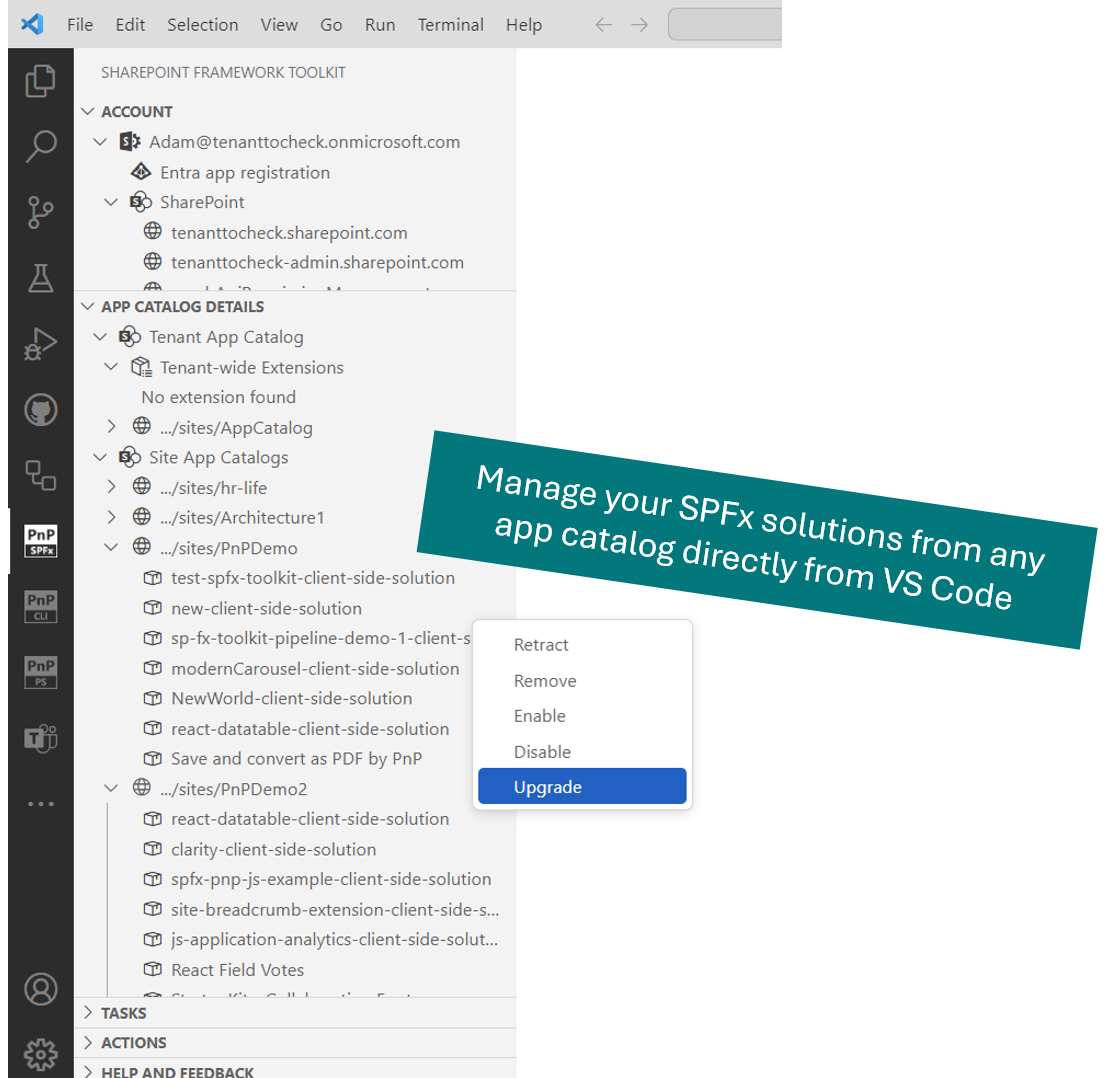
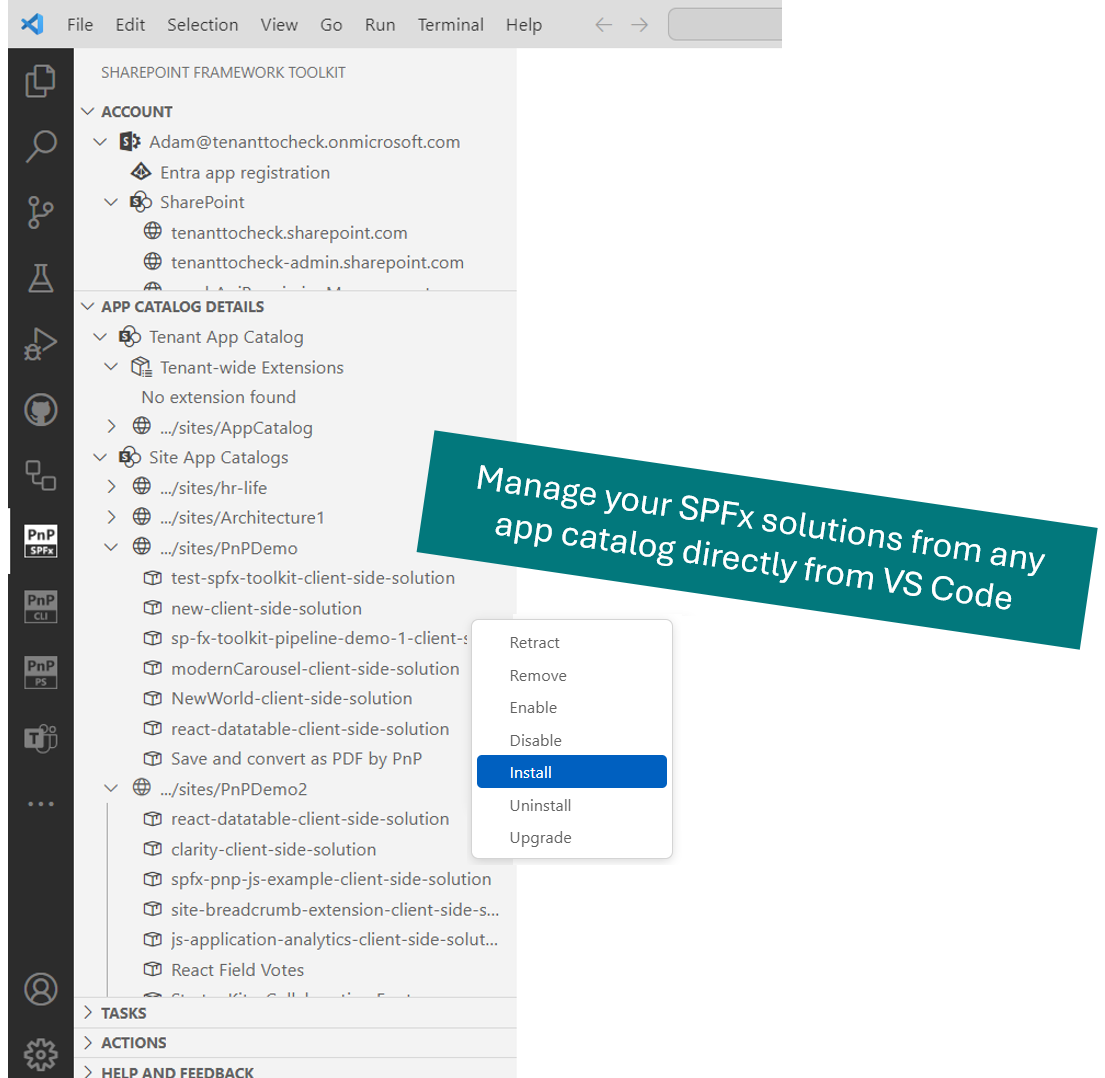
Install, Uninstall apps to a specified site. Closes #350 (#390)
## 🎯 Aim

Allows to install/uninstall an app on a specified site collection using
a action in the app catalog app list view

## 📷 Result

![image](https://github.com/user-attachments/assets/3972c256-e4b4-4f1b-9bb9-8d4831fa6fbe)

## ✅ What was done

- [X] Install/Uninstall actions added to both tenant and site collection
app catalog apps
- [X] Prompts for relative site URL when actions triggerred in tenant
app catalog apps.
- [X] Requires confirmation before uninstalling app.

## 🔗 Related issue

Closes: #350

Changed region(s): [[0.4308, 0.5816, 0.6462, 0.7959]]

diff --git a/src/services/actions/CliActions.ts b/src/services/actions/CliActions.ts
@@ -67,6 +67,16 @@ export class CliActions {
       )
     );
     subscriptions.push(
+      commands.registerCommand(Commands.installAppCatalogApp, (node: ActionTreeItem) =>
+        CliActions.toggleAppInstalled(node, ContextKeys.installApp, 'install')
+      )
+    );
+    subscriptions.push(
+      commands.registerCommand(Commands.uninstallAppCatalogApp, (node: ActionTreeItem) =>
+        CliActions.toggleAppInstalled(node, ContextKeys.uninstallApp, 'uninstall')
+      )
+    );
+    subscriptions.push(
       commands.registerCommand(Commands.upgradeAppCatalogApp, CliActions.upgradeAppCatalogApp)
     );
     subscriptions.push(
@@ -344,6 +354,96 @@ export class CliActions {
 
       await CliExecuter.execute('spo listitem set', 'json', commandOptionsSet);
       Notifications.info(`App '${appTitle}' has been successfully ${action === 'enable' ? 'enabled' : 'disabled'}.`);
+
+      // refresh the environmentTreeView
+      await commands.executeCommand('spfx-toolkit.refreshAppCatalogTreeView');
+    } catch (e: any) {
+      const message = e?.error?.message;
+      Notifications.error(message);
+    }
+  }
+
+  /**
+ * Installs or uninstalls the app on a specified site.
+ *
+ * @param node The tree item representing the app to be installed or uninstalled.
+ * @param ctxValue The context value used to identify the action node.
+ * @param action The action to be performed: 'install' or 'uninstall'.
+ */
+  public static async toggleAppInstalled(node: ActionTreeItem, ctxValue: string, action: 'install' | 'uninstall') {
+    try {
+      const actionNode = node.children?.find(child => child.contextValue === ctxValue);
+
+      if (!actionNode?.command?.arguments) {
+        Notifications.error(`Failed to retrieve app details for ${action}.`);
+        return;
+      }
+
+      const [appID, appTitle, appCatalogUrl] = actionNode.command.arguments;
+
+      let siteUrl: string | undefined;
+      if (!appCatalogUrl) {
+        const relativeUrl = await window.showInputBox({
+          prompt: 'Enter the relative URL of the site',
+          ignoreFocusOut: true,
+          placeHolder: 'e.g., sites/sales',
+          validateInput: (input) => {
+            if (!input) {
+              return 'site URL is required';
+            }
+
+            const trimmedInput = input.trim();
+
+            if (trimmedInput.startsWith('https://')) {
+              return 'Please provide a relative URL, not an absolute URL.';
+            }
+            if (trimmedInput.startsWith('/')) {
+              return 'Please provide a relative URL without a leading slash.';
+            }
+
+            return undefined;
+          }
+        });
+
+        if (relativeUrl === undefined) {
+          Notifications.warning('No site URL provided. Operation aborted.');
+          return;
+        }
+
+        siteUrl = `${EnvironmentInformation.tenantUrl}/${relativeUrl.trim()}`;
+
+      } else {
+        siteUrl = appCatalogUrl;
+      }
+
+      let forceUninstall = false;
+      if (action === 'uninstall') {
+        const confirmForce = await window.showQuickPick(['Yes', 'No'], {
+          placeHolder: `Are you sure you want to uninstall the app '${appTitle}' from site '${siteUrl}'?`,
+          ignoreFocusOut: true,
+          canPickMany: false
+        });
+
+        if (confirmForce === 'Yes') {
+          forceUninstall = true;
+        } else {
+          Notifications.warning('App uninstallation aborted.');
+          return;
+        }
+      }
+
+      const commandOptions: any = {
+        id: appID,
+        siteUrl: siteUrl,
+        ...(appCatalogUrl && {
+          appCatalogScope: 'sitecollection'
+        }),
+        ...(forceUninstall && { force: true })
+      };
+
+      const cliCommand = action === 'install' ? 'spo app install' : 'spo app uninstall';
+      await CliExecuter.execute(cliCommand, 'json', commandOptions);
+      Notifications.info(`App '${appTitle}' has been successfully ${action === 'install' ? 'installed' : 'uninstalled'} on site '${siteUrl}'.`);
 
       // refresh the environmentTreeView
       await commands.executeCommand('spfx-toolkit.refreshAppCatalogTreeView');
@@ -1004,8 +1104,8 @@ export class CliActions {
       commandOptions.EditFormClientSideComponentId = editFormClientSideComponentId;
     }
 
-    if (newFormClientSideComponentId ) {
-      commandOptions.NewFormClientSideComponentId = newFormClientSideComponentId ;
+    if (newFormClientSideComponentId) {
+      commandOptions.NewFormClientSideComponentId = newFormClientSideComponentId;
     }
 
     if (displayFormClientSideComponentId) {

diff --git a/src/panels/CommandPanel.ts b/src/panels/CommandPanel.ts
@@ -212,7 +212,9 @@ export class CommandPanel {
                     new ActionTreeItem('Remove', '', undefined, undefined, Commands.removeAppCatalogApp, [app.ID, app.Title], ContextKeys.removeApp),
                     new ActionTreeItem('Enable', '', undefined, undefined, Commands.enableAppCatalogApp, [app.Title, tenantAppCatalogUrl, app.Enabled], ContextKeys.enableApp),
                     new ActionTreeItem('Disable', '', undefined, undefined, Commands.disableAppCatalogApp, [app.Title, tenantAppCatalogUrl, app.Enabled], ContextKeys.disableApp),
-                    new ActionTreeItem('Upgrade', '', undefined, undefined, Commands.upgradeAppCatalogApp, [app.ID, app.Title, tenantAppCatalogUrl, true], ContextKeys.upgradeApp)
+                    new ActionTreeItem('Upgrade', '', undefined, undefined, Commands.upgradeAppCatalogApp, [app.ID, app.Title, tenantAppCatalogUrl, true], ContextKeys.upgradeApp),
+                    new ActionTreeItem('Install', '', undefined, undefined, Commands.installAppCatalogApp, [app.ID, app.Title], ContextKeys.installApp),
+                    new ActionTreeItem('Uninstall', '', undefined, undefined, Commands.uninstallAppCatalogApp, [app.ID, app.Title], ContextKeys.uninstallApp)
                   ]
                 )
               );
@@ -252,7 +254,9 @@ export class CommandPanel {
                       new ActionTreeItem('Remove', '', undefined, undefined, Commands.removeAppCatalogApp, [app.ID, app.Title, siteAppCatalogUrl], ContextKeys.removeApp),
                       new ActionTreeItem('Enable', '', undefined, undefined, Commands.enableAppCatalogApp, [app.Title, siteAppCatalogUrl, app.Enabled], ContextKeys.enableApp),
                       new ActionTreeItem('Disable', '', undefined, undefined, Commands.disableAppCatalogApp, [app.Title, siteAppCatalogUrl, app.Enabled], ContextKeys.disableApp),
-                      new ActionTreeItem('Upgrade', '', undefined, undefined, Commands.upgradeAppCatalogApp, [app.ID, app.Title, siteAppCatalogUrl, false], ContextKeys.upgradeApp)
+                      new ActionTreeItem('Upgrade', '', undefined, undefined, Commands.upgradeAppCatalogApp, [app.ID, app.Title, siteAppCatalogUrl, false], ContextKeys.upgradeApp),
+                      new ActionTreeItem('Install', '', undefined, undefined, Commands.installAppCatalogApp, [app.ID, app.Title, siteAppCatalogUrl], ContextKeys.installApp),
+                      new ActionTreeItem('Uninstall', '', undefined, undefined, Commands.uninstallAppCatalogApp, [app.ID, app.Title, siteAppCatalogUrl], ContextKeys.uninstallApp)
                     ]
                   )
                 );

diff --git a/src/constants/Commands.ts b/src/constants/Commands.ts
@@ -60,6 +60,8 @@ export const Commands = {
   enableAppCatalogApp: `${EXTENSION_NAME}.enableAppCatalogApp`,
   disableAppCatalogApp: `${EXTENSION_NAME}.disableAppCatalogApp`,
   upgradeAppCatalogApp: `${EXTENSION_NAME}.upgradeAppCatalogApp`,
+  installAppCatalogApp: `${EXTENSION_NAME}.installAppCatalogApp`,
+  uninstallAppCatalogApp: `${EXTENSION_NAME}.uninstallAppCatalogApp`,
   showMoreActions: `${EXTENSION_NAME}.showMoreActions`,
 
   // Set form customizer

diff --git a/src/constants/ContextKeys.ts b/src/constants/ContextKeys.ts
@@ -9,5 +9,7 @@ export const ContextKeys = {
   removeApp: 'pnp.etv.app.remove',
   enableApp: 'pnp.etv.app.enable',
   disableApp: 'pnp.etv.app.disable',
-  upgradeApp: 'pnp.etv.app.upgrade'
+  upgradeApp: 'pnp.etv.app.upgrade',
+  installApp: 'pnp.etv.app.install',
+  uninstallApp: 'pnp.etv.app.uninstall'
 };

diff --git a/README.md b/README.md
@@ -154,6 +154,8 @@ After successful sign in, an additional view is presented that shows a list of l
 - **Enable**: Allows end users to add the solution to their SharePoint sites.
 - **Disable**: Hides the solution from end users, preventing them from adding it to sites.
 - **Upgrade**: Upgrades the solution to the latest version available in the app catalog for the specified site.
+- **Install**: Install the solution from tenant or site collection app catalog to a site.
+- **Uninstall**: Uninstall the solution from a site.
 
 Additionally, it will show you all tenant-wide extensions installed on your tenant.
 

diff --git a/assets/walkthrough/tenant-details.md b/assets/walkthrough/tenant-details.md
@@ -30,6 +30,8 @@ After successful sign in, an additional view is presented that shows a list of l
 - **Enable**: Allows end users to add the solution to their SharePoint sites.
 - **Disable**: Hides the solution from end users, preventing them from adding it to sites.
 - **Upgrade**: Upgrades the solution to the latest version available in the app catalog for the specified site.
+- **Install**: Install the solution from tenant or site collection app catalog to a site.
+- **Uninstall**: Uninstall the solution from a site.
 
 Additionally, it will show you all tenant-wide extensions installed on your tenant.
 
